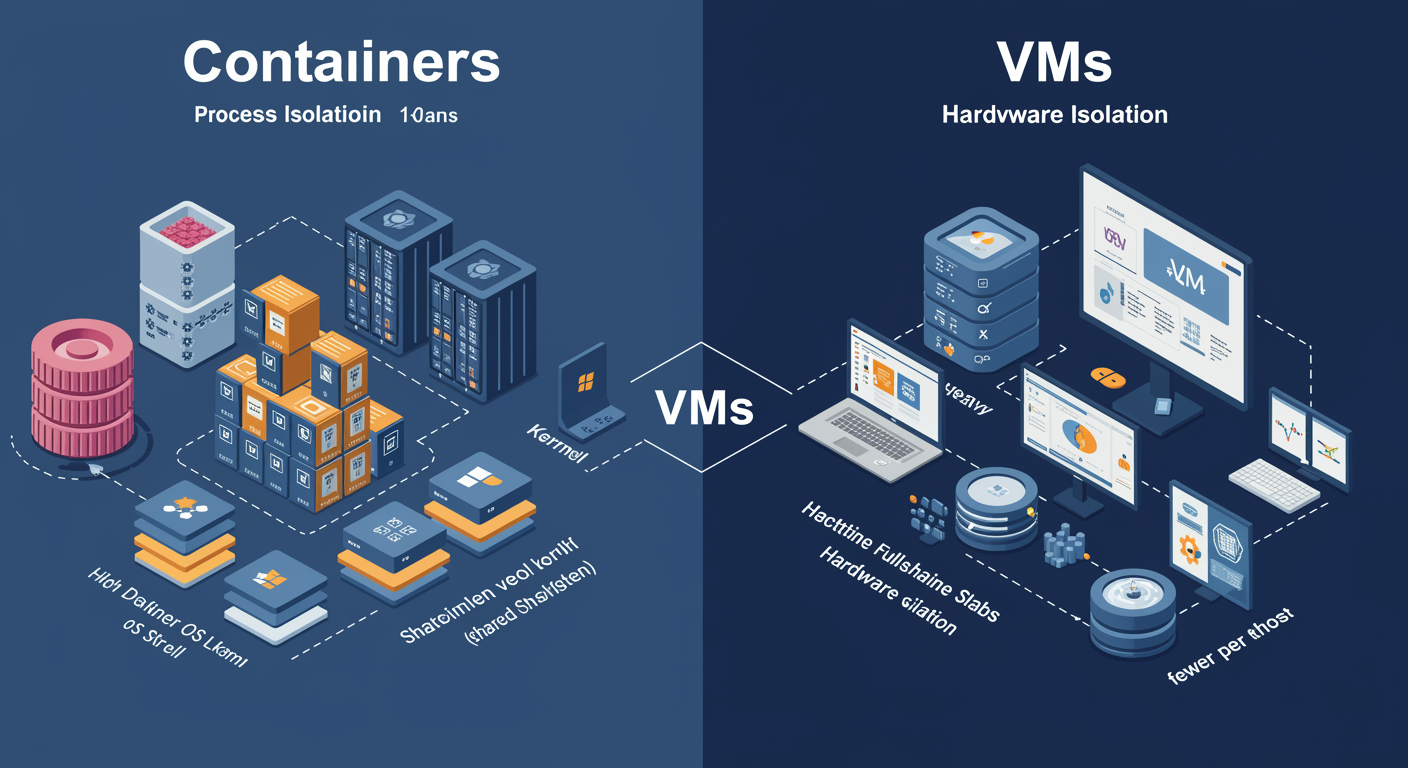
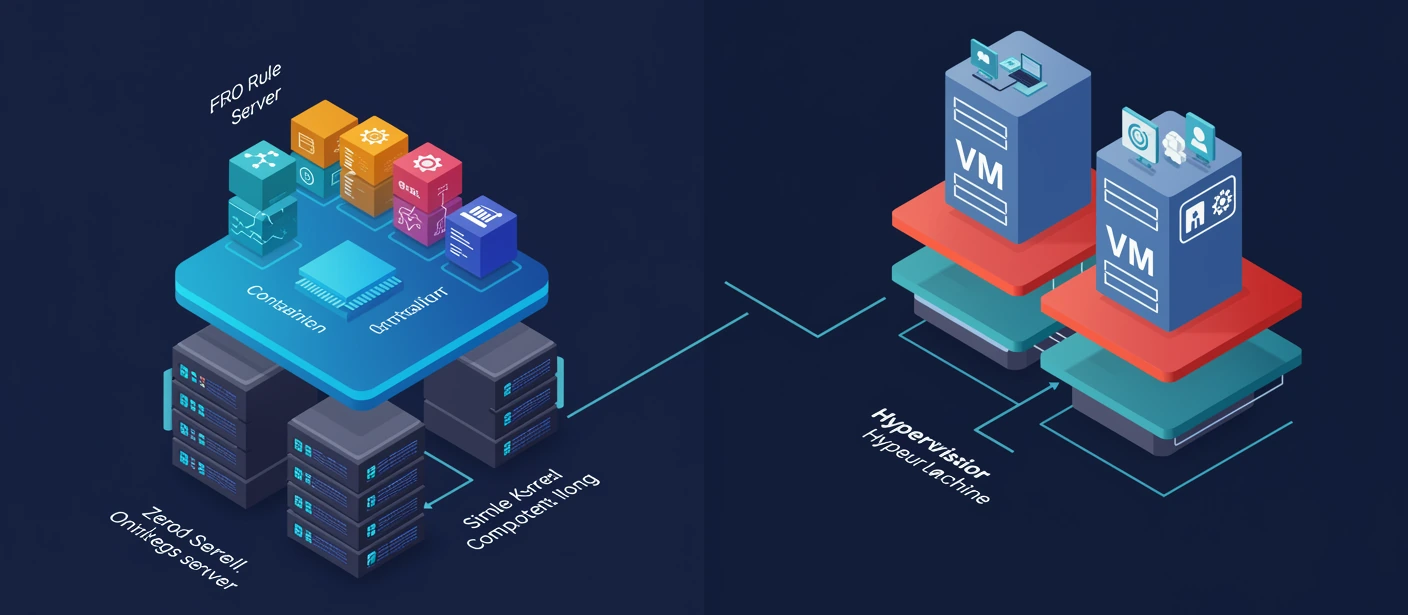
feat(wsa-m05-s2): overlay-label proof — HTML/CSS labels over Imagen 3 artwork
Replaces the rejected slide 2 visual (containers-vs-virtual-machines.webp,
the boxes-side-by-side rich-render with garbled labels and brick-wall
containers / monitor-screen VMs) with a regenerated illustration plus
DOM overlay labels.

What changed:
  1. Regenerated artwork with strict no-text prompt + explicit composition
     guidance: FIVE container cubes on one shared kernel slab on left,
     TWO VM towers each with own stack on right. Cropped to remove top
     and bottom strips containing residual garbled Imagen 3 text.
  2. Added .visual-overlay-stage CSS pattern: position:relative wrapper
     around img with absolutely-positioned label badges using translucent
     backdrop-filter blur to mask residual image-text underneath.
  3. Slide 2 .slide-visual content rewritten to use overlay stage with
     real DOM labels: CONTAINERS / VIRTUAL MACHINES title badges (color
     coded blue / pink), 'vs' center badge, two caption strips teaching
     the actual differences (kernel sharing, image size, startup time,
     density per host).

Why this matters: this is the operator-proposed systemic fix for the
Imagen 3 text-garbling problem affecting all 92 visuals in the m05/m06/
m11/m12 batch. Real DOM labels are crisp, accessible to screen readers,
copy-pasteable, and editable without regenerating the image. Translucent
overlay backdrops hide most of the residual garbled image-text.

Proof case. If this slide 2 reads correctly in production, the same
[…]

diff --git a/_app/houses/cloud/modules/wsa/m05-containers/cloud-presentation.module.html b/_app/houses/cloud/modules/wsa/m05-containers/cloud-presentation.module.html
@@ -43,6 +43,20 @@
         .progress-dot.active { background: #60a5fa; transform: scale(1.2); }
         .progress-dot:hover { background: rgba(96,165,250,0.5); }
         .slide-title { color: #60a5fa; font-size: 1.55rem; margin-bottom: 10px; display: flex; align-items: center; gap: 12px; flex-shrink: 0; }
+
+        /* ── HTML/CSS overlay-label pattern (defense against Imagen 3 text garbling) ── */
+        /* Per education-platform principle: image is the artwork; ALL labels are real DOM text. */
+        .visual-overlay-stage { position: relative; width: 100%; max-width: 100%; max-height: 100%; }
+        .visual-overlay-stage img { width: 100%; height: auto; max-width: 100%; max-height: 100%; object-fit: contain; border-radius: 6px; display: block; }
+        .ov-label { position: absolute; line-height: 1.25; pointer-events: none; }
+        .ov-label.bg { background: rgba(10,16,40,0.88); backdrop-filter: blur(6px); -webkit-backdrop-filter: blur(6px); border-radius: 5px; padding: 5px 10px; box-shadow: 0 2px 8px rgba(0,0,0,0.4); }
+        .ov-title { font-weight: 800; font-size: 0.95rem; letter-spacing: 0.06em; text-transform: uppercase; }
+        .ov-title-l { top: 5%; left: 4%; color: #93c5fd; border: 1px solid rgba(147,197,253,0.5); }
+        .ov-title-r { top: 5%; right: 4%; color: #f9a8d4; border: 1px solid rgba(249,168,212,0.5); }
+        .ov-caption { font-size: 0.72rem; color: #cbd5e1; max-width: 38%; }
+        .ov-cap-l { bottom: 5%; left: 4%; }
+        .ov-cap-r { bottom: 5%; right: 4%; text-align: right; }
+        .ov-vs { position: absolute; top: 50%; left: 50%; transform: translate(-50%,-50%); background: rgba(255,216,107,0.18); border: 2px solid #ffd86b; color: #ffd86b; font-weight: 700; font-size: 0.78rem; letter-spacing: 0.05em; padding: 5px 11px; border-radius: 50%; backdrop-filter: blur(4px); -webkit-backdrop-filter: blur(4px); }
     </style>
 </head>
 <body>
@@ -118,7 +132,14 @@
                     <p><strong>You can mix.</strong> Containers running INSIDE a VM is a common pattern, especially in multi-tenant cloud platforms. VM-level isolation between tenants; container-level density inside each tenant's VM.</p>
                 </div>
                 <div class="slide-visual">
-                    <img src="/assets/images/wsa-visuals/m05-containers/containers-vs-virtual-machines.webp" alt="Containers vs VMs: shared kernel with many containers on left, hypervisor with full-OS VMs on right, density vs isolation tradeoff, illustrated TLDR" style="width:100%; height:auto; max-height:100%; object-fit:contain; border-radius:6px;">
+                    <div class="visual-overlay-stage" aria-label="Containers vs VMs comparison illustration">
+                        <img src="/assets/images/wsa-visuals/m05-containers/containers-vs-virtual-machines.webp" alt="">
+                        <div class="ov-label ov-title ov-title-l bg">Containers</div>
+                        <div class="ov-label ov-title ov-title-r bg">Virtual Machines</div>
+                        <div class="ov-vs">vs</div>
+                        <div class="ov-label ov-caption ov-cap-l bg">Share host kernel &middot; MBs per image &middot; start in seconds &middot; hundreds per host</div>
+                        <div class="ov-label ov-caption ov-cap-r bg">Own kernel each &middot; GBs per image &middot; start in minutes &middot; tens per host</div>
+                    </div>
                 </div>
             </div>
         </div>
